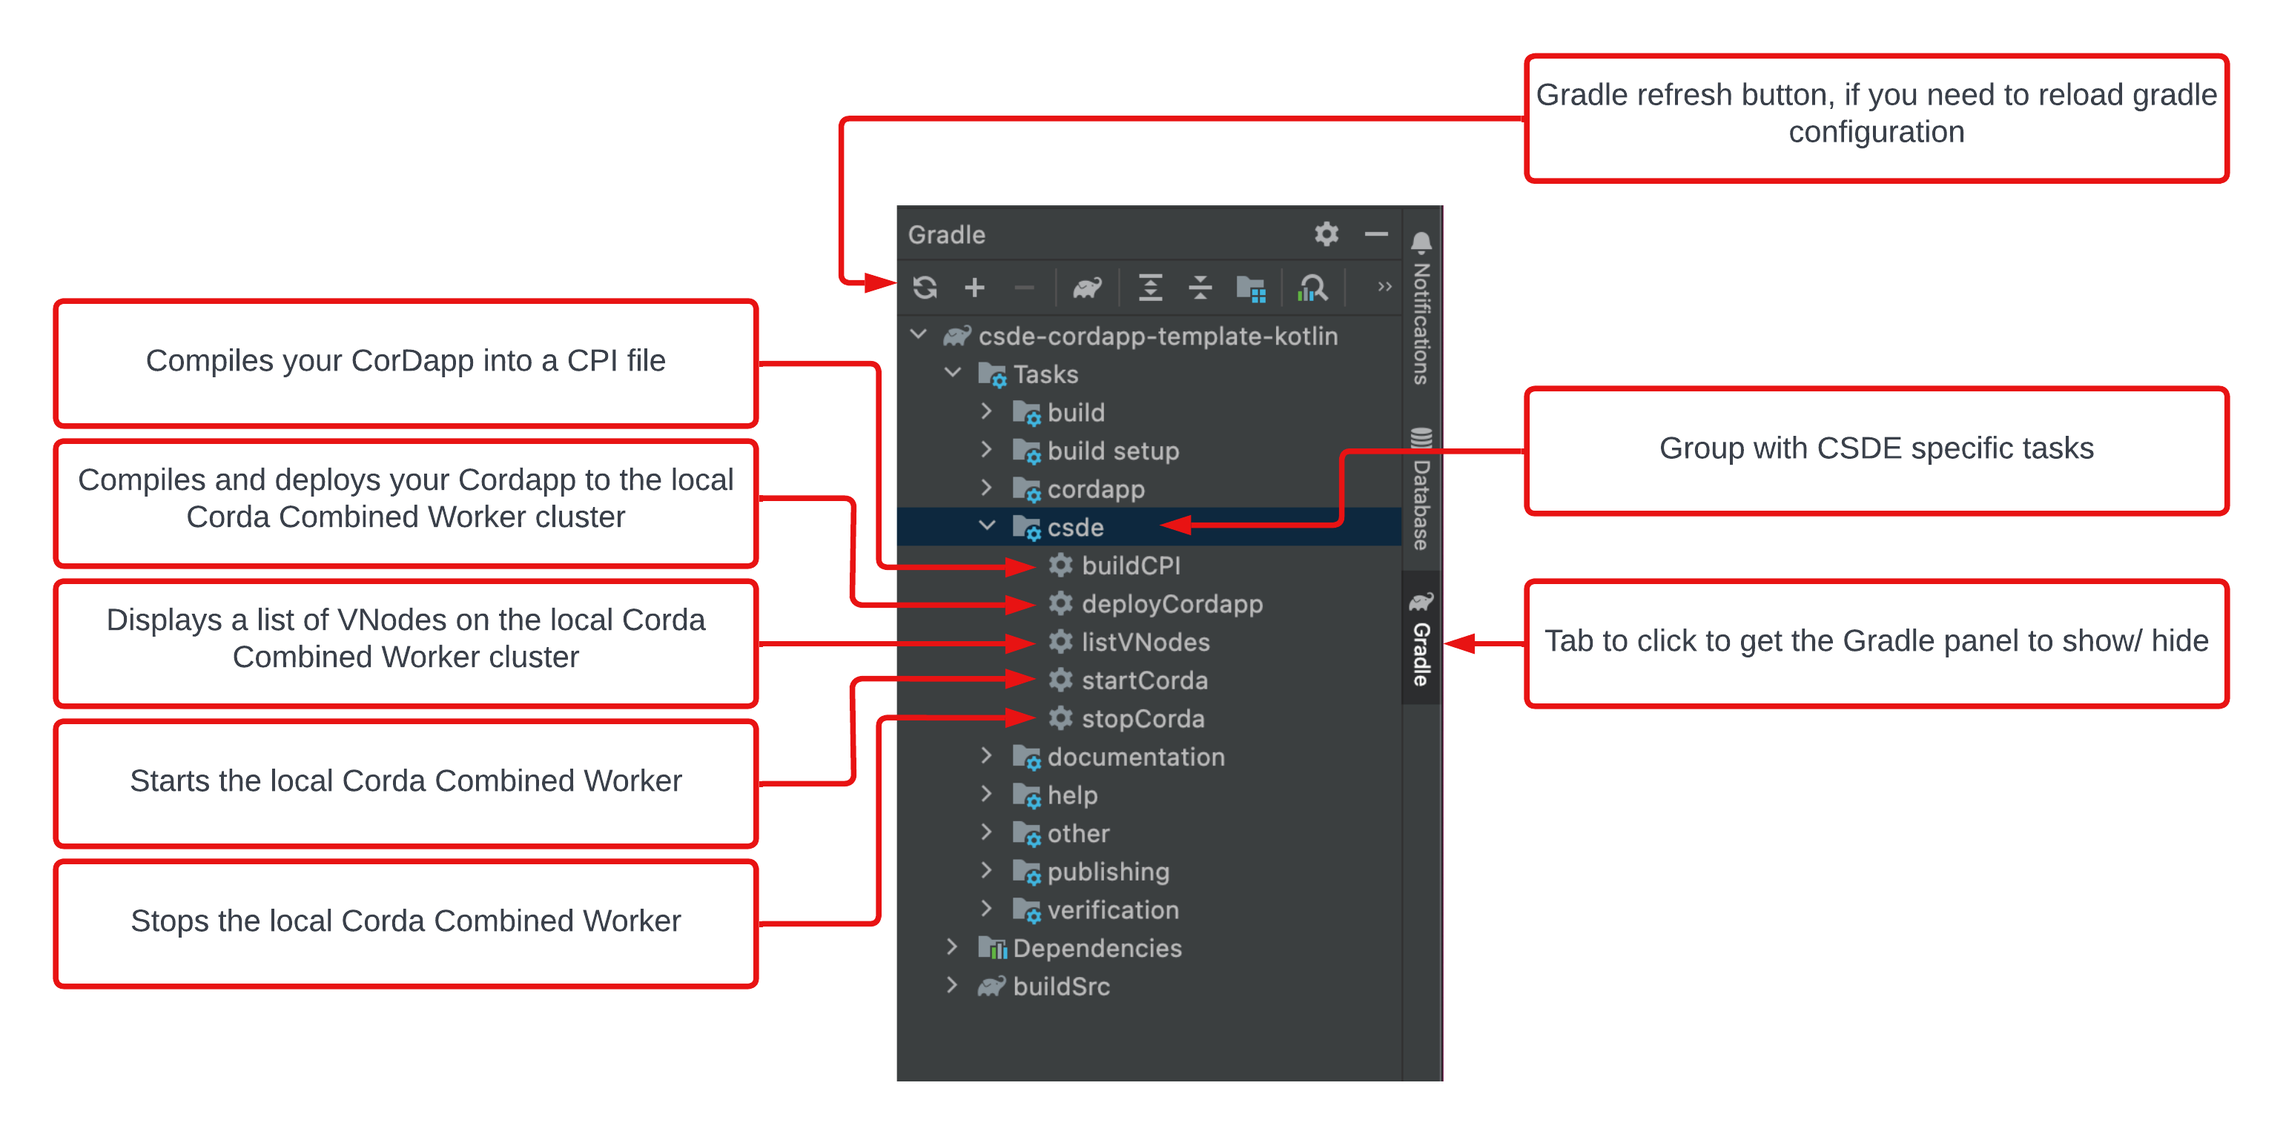
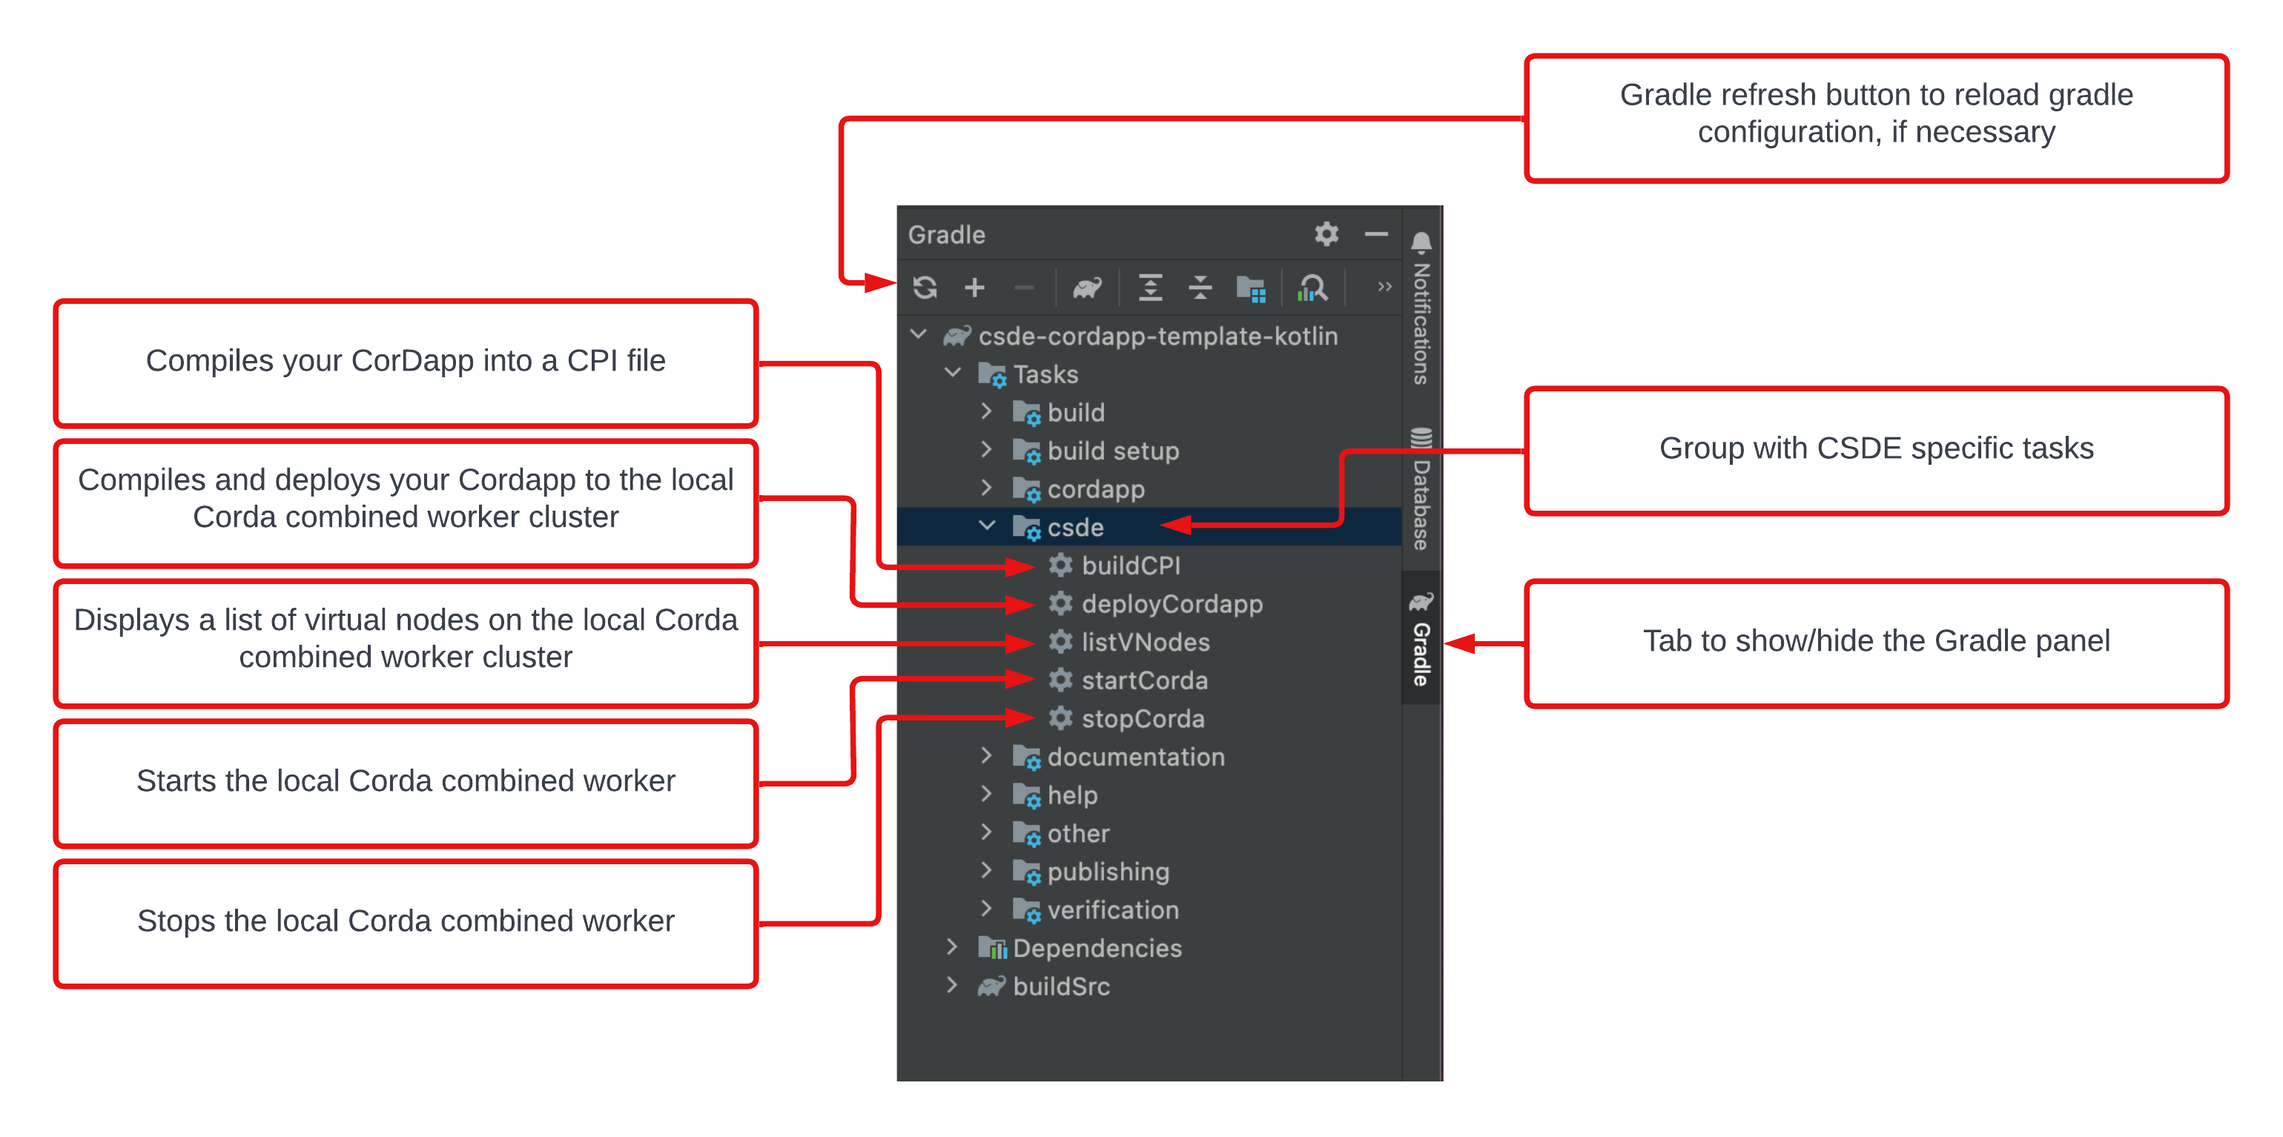
Various minor edits following a walkthrough of the Getting Started section

diff --git a/themes/doks/layouts/partials/header/header.html b/themes/doks/layouts/partials/header/header.html
@@ -1,7 +1,7 @@
 <header>
   <!-- Banner for alerts. Just move closing comment mark to the end of this sentence and update text.    -->
     <p style="color:#FFFFFF; background-color: #ec1d25; text-align: center; margin-bottom:0rem;">
-        <b><a style ="color:#FFFFFF; text-decoration: underline;" href="../../../../../en/platform/corda/5.0-dev-preview-2.html">Corda 5 Developer Preview 2</a></b> is now available.
+        <b><a style ="color:#FFFFFF; text-decoration: underline;" href="https://docs.r3.com/en/platform/corda/5.0-dev-preview-2.html">Corda 5 Developer Preview 2</a></b> is now available.
     </p>
 
   <div class="navbar  navbar-dark">

diff --git a/content/en/platform/corda/5.0-dev-preview-2/getting-started/first-flow.md b/content/en/platform/corda/5.0-dev-preview-2/getting-started/first-flow.md
@@ -191,7 +191,7 @@ There are two helper classes:
    class MyFirstFlowStartArgs(val otherMember: MemberX500Name)
    ```
    The [MyFirstFlowTest](fast-feedback-with-the-simulator/fast-feedback-with-the-simulator.md) Simulator example uses this class.
-* Message class —  specifies the message sent from the initiator to the responder and subsequently the message sent back from the responder to the initiator.  Note, as this is a class defined in the CorDapp and it is going to be sent ‘down the wire’ between two virtual nodes, it requires the @CordaSerializable annotation.
+* `Message` —  specifies the sender and the message. This is used for both the message sent from the initiator to the responder and subsequently the message sent back from the responder to the initiator. Note, as this is a class defined in a CorDapp and it is going to be sent ‘down the wire’ between two virtual nodes, it requires the `@CordaSerializable` annotation.
    ```kotlin
    @CordaSerializable
    class Message(val sender: MemberX500Name, val message: String)
@@ -244,11 +244,11 @@ In the responder flow:
 ```
 ## Injecting service
 Corda 5 requires a CorDapp Developer to explicitly specify which Corda services are required by the flow. In this simple example we use three services:
-* JsonMarshallingService — a service that CorDapps and other services may use to marshal arbitrary content in and out of JSON format using standard approved mappers.
-* FlowMessaging  — a service that CorDapps can use to create communication sessions between two virtual nodes. Once set up, you can send and receive using the session object.
-* MemberLookup  — a service that CorDapps can use to retrieve information about virtual nodes on the network.
+* `JsonMarshallingService` — a service that CorDapps and other services may use to marshal arbitrary content in and out of JSON format using standard approved mappers.
+* `FlowMessaging`  — a service that CorDapps can use to create communication sessions between two virtual nodes. Once set up, you can send and receive using the session object.
+* `MemberLookup`  — a service that CorDapps can use to retrieve information about virtual nodes on the network.
 
-There are other services, such as the Persistence and Serialization services, which are beyond the scope of this getting started example.
+There are other services, such as the `Persistence` and `Serialization` services, which are beyond the scope of this getting started example.
 
 Services are declared as properties in the flow class with the `@CordaInject` annotation:
 ```kotlin
@@ -303,13 +303,13 @@ To create the message, you must know the identity of the initiator. Remember tha
 ## Setting up the FlowSession
 We can now start sending messages to the responder:
 1. Set up a `FlowSession` between the initiator and responder node:
-```kotlin
+   ```kotlin
         val session = flowMessaging.initiateFlow(otherMember)
-```
+   ```
 2. Simply call `send()` on the session and pass a payload:
-```kotlin
+   ```kotlin
         session.send(message)
-```
+   ```
    The code continues to execute until it reaches the `session.receive()` method. At that point, the flow checkpoints and persists its state to the database. It resumes when it receives a message back from the responder. This frees up the Corda cluster flow workers to perform other tasks.
    {{< note >}}
    There is no guarantee that the same flow worker resumes the completion of the flow and so singleton objects should be avoided in Corda 5 flows.
@@ -327,7 +327,7 @@ We can now start sending messages to the responder:
            val receivedMessage = session.receive(Message::class.java)
    ```
    The responder flow then obtains its own identity from its injected `memberLookup` service, creates a response, and sends the response back using `session.send()`:
-```kotlin
+   ```kotlin
         val ourIdentity = memberLookup.myInfo().name
 
         val response = Message(ourIdentity,
@@ -336,18 +336,18 @@ We can now start sending messages to the responder:
         log.info("MFF: response.message: ${response.message}")
 
         session.send(response)
-```
+   ```
    There is no return value for a ResponderFlow.
 
    Back on the Initiating virtual node, Corda detects the send coming from the responder and rehydrates the initiating flow from the database and resumes it from where it was checkpointed.
 
    The response is received and `response.message` is returned by the flow.
-```kotlin
+   ```kotlin
         val response = session.receive(Message::class.java)
 
         return response.message
-```
-   The response from the initiating flow is always a Strinh, which can be returned when the flow status is queried by HTTP-RPC.
+   ```
+   The response from the initiating flow is always a String, which can be returned when the flow status is queried by HTTP-RPC.
 
 ## Other considerations for FlowSessions
 It is important that the sends and receives in the initiator and responder flows match. If the initiator sends a Foo and the responder expects a Bar, the flow hangs and likely results in a timeout error.

diff --git a/content/en/platform/corda/5.0-dev-preview-2/getting-started/running-your-first-cordapp/run-first-cordapp.md b/content/en/platform/corda/5.0-dev-preview-2/getting-started/running-your-first-cordapp/run-first-cordapp.md
@@ -46,7 +46,7 @@ If the Swagger UI is already open whilst starting Corda, you must hit an endpoin
 ### Authorizing Swagger
 
  To access the Corda cluster, you must authorize Swagger:
- 1. Click the green **Authorise** button.
+ 1. Click the green **Authorize** button.
 {{< figure src="authorize-button.png"  width="50%" figcaption="Swagger Authorize button" alt="Button in Swagger UI to authorize access to the Corda cluster" >}}
    The **Available authorizations** window is displayed.
 2. If necessary, click **Logout**.
@@ -65,7 +65,7 @@ Once authorised, you can start hitting endpoints. The easiest one to try is `/cp
    As we have not uploaded any CPIs yet, the returned list of CPIs is empty.
    If Corda has not started yet, Swagger will return an error:
    {{< figure src="get-cpi-error.png" figcaption="Swagger showing an error response to GET /cpi" alt="Swagger showing an error response to GET /cpi" >}}
-   If this occurs, you either have not started Corda, Corda has not finished starting, or something has gone wrong. If something has gone wrong, you should try again or [reset the environment and start again](../reset-csde.html).
+   If this occurs, you either have not started Corda, Corda has not finished starting, or something has gone wrong. If something has gone wrong, you should try again or [reset the environment](../reset-csde.html) and start again.
    {{< note >}}
    Each time you start Corda, it is a fresh instance. There is no persistence of state between restarts.
    {{< /note >}}
@@ -76,9 +76,9 @@ You can use the `MyFirstFlow` flow to build a CorDapp, without any further work:
 1. Click the `deployCorda` Gradle task:
 {{< figure src="deploy-cordapp.png" width="50%" figcaption="CSDE deployCorda task" alt="CSDE task to deploy a CorDapp in IntelliJ" >}}
    This task runs a series of Gradle tasks to:
-   * Build the CPB (CorDapp)
+   * Build the [CPB](../../introduction/key-concepts.html#corda-package-bundles-cpbs)
    * Create the GroupPolicy (Application Network definition)
-   * Generate signing keys to sign the CPB and CPI
+   * Generate signing keys to sign the CPB and [CPI](../../introduction/key-concepts.html#corda-package-installer-cpi)
    * Build the CPI (combination of CPB and Group Policy)
    * Sign the CPI
    * Upload the CPI to Corda
@@ -91,11 +91,11 @@ You can use the `MyFirstFlow` flow to build a CorDapp, without any further work:
 ### Starting your first flow
 
 To run your first flow:
-1. Find the `holdingidentityshorthash` for the virtual node you want to trigger the flow on. You can do this by running the `listVnodes` gradle task which will list the VNodes set up:
+1. Find the `holdingidentityshorthash` for the virtual node you want to trigger the flow on. You can do this by running the `listVnodes` Gradle task to display a list of the configured virtual nodes:
    {{< figure src="list-vnodes.png" figcaption="Running the listVnodes gradle task" >}}
    The 12 digit hash is the `holdingidentityshorthash` that acts as the unique identifier for a virtual node.
 
-2. Expand the `POST /flow/{holdingidentityshorthash}` endpoint in Swagger and click **Try it out**.
+2. Expand the `POST /flow/{holdingidentityshorthash}` endpoint in the Flow Management API section in Swagger and click **Try it out**.
 {{< figure src="post-flow.png" figcaption="Try it out button for POST /flow/{holdingidentityshorthash}" alt="Expanded POST /flow/{holdingidentityshorthash} with Try it out button" >}}
 3. Enter the hash and the `requestBody` and click **Execute**.
 {{< figure src="post-flow-arguments.png" figcaption="Arguments for POST /flow/{holdingidentityshorthash}" >}}
@@ -114,13 +114,13 @@ requestBody code:
 * `flowClassName` is the fully qualified path to the flow class you want to run.
 * `requestData` is the set of arguments you pass to the flow.
 
-   You should get the following response:
+   Swagger should display the following response:
    {{< figure src="post-flow-start-requested.png" figcaption="Successful response for POST /flow/{holdingidentityshorthash}" >}}
 
-Note, if you forget to change the `ClientRequestId` on subsequent attempts to run the flow, you will receive this error message:
+Note, if you forget to change the `ClientRequestId` on subsequent attempts to run the flow, the following error message is displayed:
 {{< figure src="post-flow-already-started-error.png" figcaption="Error response for POST /flow/{holdingidentityshorthash" >}}
 
-Because the API is asynchronous, at this stage you only receive the confirmation `START_REQESTED`. There is no indication of  the flow has been successful. To find out the status of the flow, you must check the flow status.
+Because the API is asynchronous, at this stage you only receive the confirmation `START_REQESTED`. There is no indication if the flow has been successful. To find out the status of the flow, you must check the flow status.
 
 ### Checking the flow status
 

diff --git a/content/en/platform/corda/5.0-dev-preview-2/getting-started/get-started.md b/content/en/platform/corda/5.0-dev-preview-2/getting-started/get-started.md
@@ -24,10 +24,10 @@ Deploying Cordapps to a local Corda Cluster (Combined Worker).-->
 {{< note >}}
 Developer Preview 2 is, as the name suggests, a developer preview. It is not a product released and supported by R3. As a result:
 * Do not release anything built on Developer Preview 2 into Production.
-* There is no support For Developer Preview 2 but we are keen to receive community feedback.
+* There is no support for Developer Preview 2 but we are keen to receive community feedback.
 * There are no guarantees around API stability.
-* The tooling described in this section is experimental and may or may not make it in to the GA release of Corda 5.
-* There are going to be bugs. If you raise a bug with us, we will consider them for fixing.
+* The tooling described in this section is experimental and may or may not be delivered in the GA release of Corda 5.
+* There are likely to be bugs. If you raise a bug with us, we will consider them for fixing.
 {{< /note >}}
 
 ## Developer Preview 1 vs Developer Preview 2
@@ -36,13 +36,13 @@ Developer Preview 1 was effectively a taster for the Corda 5 API. It was however
 
 ## Kotlin vs Java
 
-The getting started documentation and templates are currently only in Kotlin. We are working to provide Java versions as soon as possible, but it may be a short time after the release of DP2.
+The Getting Started documentation and templates are currently only in Kotlin. We are working to provide Java versions as soon as possible, but it may be a short time after the release of DP2.
 
-To Java Developers used to working with Corda 4, or those who have some familiarity with Kotlin, it should be possible to work out how to implement the examples in Java without too many problems.
+For Java Developers used to working with Corda 4, or those who have some familiarity with Kotlin, it should be possible to work out how to implement the examples in Java without too many problems.
 
 ## Corda 4 vs Corda 5
 
-Corda 5 is a complete re-write of Corda 4. This was necessary to achieve the massive gains in non-functional performance that Corda 5 offers. When writing CorDapps, some things will appear familiar and some things will feel different. For example, the basic mechanism of flows is similar, whereas the structure of the Corda network, the way flows are tested, and the way flows are instantiated (via REST) have changed significantly. You can read more about these changes in the [Introduction](../introduction/introduction.html).
+Corda 5 is a complete re-write of Corda 4. This was necessary to achieve the massive gains in non-functional performance that Corda 5 offers. When writing CorDapps, some things will seem familiar and some things will feel different. For example, the basic mechanism of flows is similar, whereas the structure of the Corda network, the way flows are tested, and the way flows are instantiated (via REST) have changed significantly. You can read more about these changes in the [Introduction](../introduction/introduction.html).
 
 This documentation does not assume any prior knowledge of Corda 4.
 

diff --git a/content/en/platform/corda/5.0-dev-preview-2/getting-started/cordapp-standard-development-environment/csde.md b/content/en/platform/corda/5.0-dev-preview-2/getting-started/cordapp-standard-development-environment/csde.md
@@ -8,7 +8,7 @@ menu:
     weight: 2000
 section_menu: corda-5-dev-preview2
 ---
-To make the process of prototyping CorDapps on Developer Preview 2 more straight-forward, we have developed the CorDapp Standard Development Environment (CSDE).
+The CorDapp Standard Development Environment (CSDE) makes the process of prototyping CorDapps on Developer Preview 2 more straight-forward.
 The CSDE is obtained by cloning our `CSDE-Cordapp-Template-Kotlin` repository to your local machine. The CSDE provides:
 * A prepared CorDapp project that you can use as a starting point to develop your own prototypes
 * A base Gradle configuration that brings in the dependencies you need to write and test a Corda 5 CorDapp
@@ -18,7 +18,7 @@ The CSDE is obtained by cloning our `CSDE-Cordapp-Template-Kotlin` repository to
 * The ability to configure the members of the local Corda network
 
 {{< note >}}
-The CSDE is experimental. The decision whether or not we release it as part of Corda 5.0 will, in part, be based on your feedback.  
+The CSDE is experimental. The decision whether or not we release it as part of Corda 5.0 will, in part, be based on your [feedback](https://community.r3.com/c/corda-5-developer-preview/41).  
 {{< /note >}}
 
 ## Downloading the CSDE template
@@ -61,7 +61,7 @@ The **combined worker** is a Corda cluster that runs all of the workers in one J
 
 The `startCorda` task does the following:
 
-1. Downloads and locally stores a copy of the Combined Worker JAR, if required
+1. Downloads and locally stores a copy of the combined worker JAR, if required
 2. Starts an instance of a Postgres Docker container; you will need Docker Engine or Docker Desktop running
 3. Starts the combined worker
 
@@ -76,10 +76,18 @@ The `stopCorda` task does the following:
 
 The `deployCorDapp` task does the following to compile and deploy the CorDapp to the combined worker:
 
-1. Compiles the [CPB](../../introduction/key-concepts.html#corda-package-bundles-cpbs) and [CPI](../../introduction/key-concepts.html#corda-package-installer-cpi)
+1. Compiles the [CPB](../../introduction/key-concepts.html#corda-package-bundles-cpbs) and [CPI](../../introduction/key-concepts.html#corda-package-installer-cpi) using the [buildCPI](#buildCPI-task) task
 2. Uploads the CPI to the combined worker
 3. Generates the [virtual nodes](../../introduction/key-concepts.html#virtual-nodes) with the CPI
 
+#### `buildCPI`
+
+The `buildCPI` task compiles your CorDapp into a CPI file.
+
+#### `listVNodes`
+
+The `listVNodes` task displays a list of the virtual nodes on the local Corda cluster.
+
 ### Debug configuration
-In the toolbar, you can select the `DebugCorDapp` run configuration to debug the running Corda from IntelliJ.
+In the toolbar, you can select the `DebugCorDapp` run configuration to debug the running CorDapp from IntelliJ.
 {{< figure src="debugging.png" figcaption="CSDE DebugCorDapp" alt="Menu in IntelliJ to debug Corda" >}}

diff --git a/content/en/platform/corda/5.0-dev-preview-2/getting-started/debugging-against-local-corda/debugging-against-local-corda.md b/content/en/platform/corda/5.0-dev-preview-2/getting-started/debugging-against-local-corda/debugging-against-local-corda.md
@@ -8,7 +8,7 @@ menu:
     weight: 6000
 section_menu: corda-5-dev-preview2
 ---
-The CSDE includes an IntelliJ run-time configuration which allows you to attach IntelliJ’s debugger to the local Corda cluster.
+The CSDE includes an IntelliJ run-time configuration that allows you to attach IntelliJ’s debugger to the local Corda cluster.
 {{< note >}}
 Currently there is a time-out issue when debugging Corda. As the local Corda cluster is a real Corda cluster, it behaves like one. Specifically, if the workers stop working, Corda detects it and errors out the flow. Unfortunately, it currently mistakes code held at a debugging point as a processor that has stopped working. As a result, although you can halt at a breakpoint and examine the stack, if you wait too long before resuming the execution of the code, it times out and the CorDapp does not continue to run as expected.     
 {{< /note >}}
